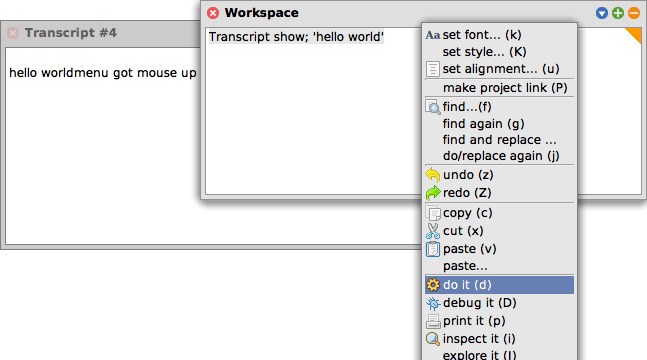
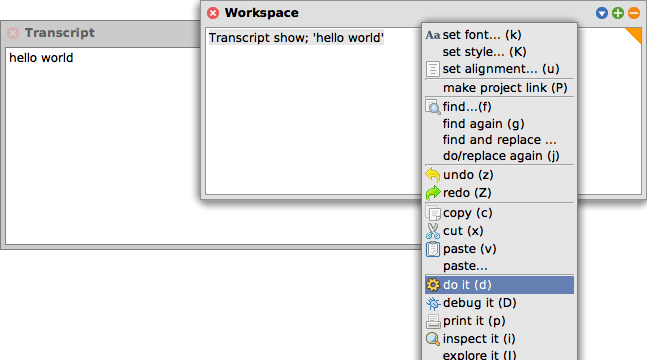
add example for modal dialogs (FindIt.png)

Changed region(s): [[0.3091, 0.0611, 0.5873, 0.1222], [0.0, 0.1528, 0.3091, 0.2139], [0.1546, 0.0611, 0.1855, 0.1222]]

diff --git a/QuickTour/QuickTour.tex b/QuickTour/QuickTour.tex
@@ -298,7 +298,7 @@ Do it again.
 (The \menu{(d)} in the menu item \menu{do it (d)} tells you that the keyboard shortcut to \emph{do it} is \short{d}. More on this in the next section!)
 
 %%{SBESqueakPicture writeTo: './figures/Doit.png' frame: [:morphsRect | morphsRect withBottom: morphsRect bottom - 150] using: [:helper | | workspace |
-%%  Transcript open.
+%%  ToolBuilder open: Transcript.
 %%  Transcript show: 'hello world'.
 %%  helper world firstSubmorph bounds: (0 @ 120 extent: 450 @ 230).
 %%  
@@ -463,7 +463,7 @@ As we shall see, there are several interesting browsers available for \sq, but t
 
 \dothis{Open a browser by selecting \menu{World \go open \ldots \go class browser}, or by dragging a Browser from the \toolsflapind.}
 
-%%{SBESqueakPicture writeTo: './figures/SqueakMap.png' frame: #morphs using: [:helper |
+%%{SBESqueakPicture writeTo: './figures/ClassBrowser2.png' frame: #morphs using: [:helper |
 %%  Browser fullOnClass: Object selector: #printString.
 %%  "SBELabelRectangle new text: 'Classes'; center:" 
 %%]}
@@ -554,10 +554,13 @@ You will be presented with a list of classes whose names contain ``time'' (see \
 \index{keyboard shortcut!browse it}
 
 %%{SBESqueakPicture writeTo: './figures/FindIt.png' frame: #morphs using: [:helper | | browser |
-%%  browser := ToolBuilder open: Browser new
-%%  helper keyStroke: browser key: $f modifiers: #(cmd).
+%%  browser := ToolBuilder open: Browser.
+%%  browser position: 0 @ 0.
+%%  
+%%  helper
+%%    runModal: [helper keyStroke: browser submorphs sixth key: $f modifiers: #(cmd)]
+%%    then: [helper dialogWindow position: 60 asPoint]
 %%]}
-
 \begin{figure}[hbt]
 \centerline{
 \ifluluelse{
